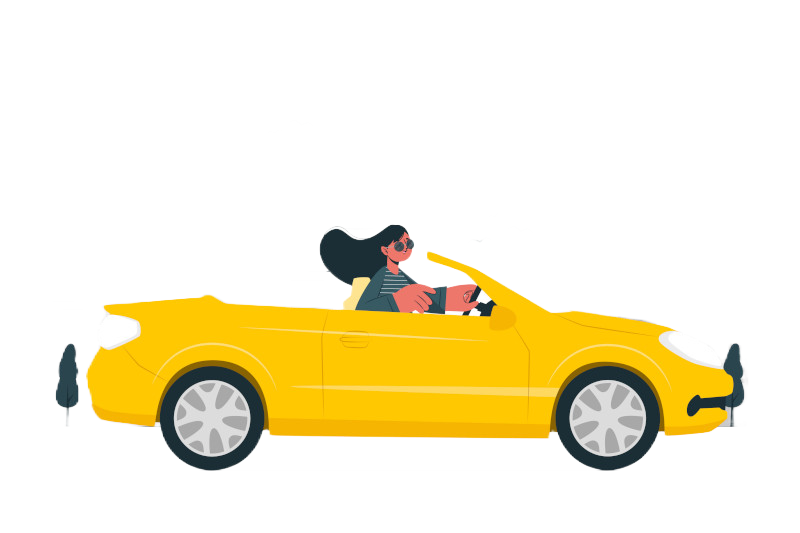
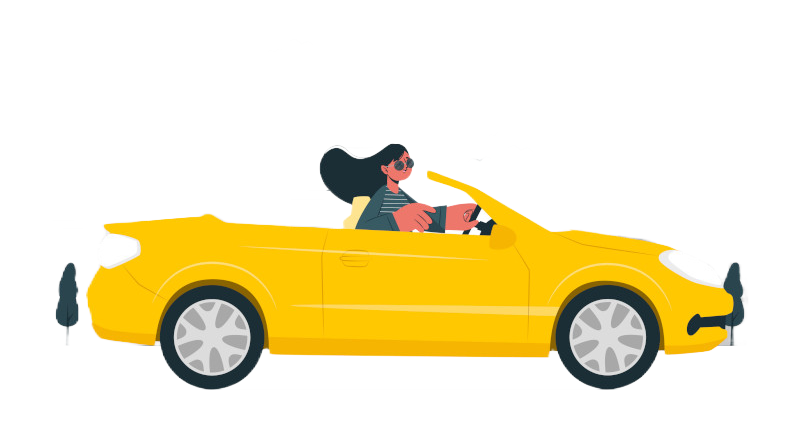
responsividade

Changed region(s): [[0.0625, 0.331, 0.9375, 0.8125], [0.1875, 0.8125, 0.875, 0.9028], [0.125, 0.7824, 0.1875, 0.8125]]

diff --git a/page-car/style/style.css b/page-car/style/style.css
@@ -30,6 +30,28 @@ header{
     align-items: center;
 
 }
+
+a:hover{
+    color: #FFC801;
+    transition: 0.3s;
+}
+
+header a{
+    text-decoration: none;
+    color: var(--cor04);
+    font-size: 1.2em;
+}
+#destaque{
+    border: 2px solid #FFC801;
+    padding: 7px;
+    border-radius: 12px;
+}
+#destaque:hover{
+    background-color: #FFC801;
+    color: #0010B3;
+    transition: 0.3s;
+
+}
 #title{
     font-family: 'Arvo', serif;
     color: #0010B3;
@@ -39,6 +61,10 @@ header{
 
 h1{
     font-weight: 400;
+}
+
+ul{
+    margin-right: 30px;
 }
 
 li{
@@ -61,4 +87,43 @@ h2{
 
 .span{
     color: var(--cor01);
+}
+p{
+    line-height: 18px;
+    max-width: 500px;
+    font-family: Verdana, Geneva, Tahoma, sans-serif;
+    color: rgb(27, 27, 27);
+}
+
+form{
+    display: flex;
+    flex-direction: column;
+    width: 70%;
+}
+input{
+    margin-top: 20px;
+    height: 20px;
+    padding: 20px;
+    border-radius: 20px;
+    background-color: #FFCD19;
+    color: #0010B3;
+    border: none;
+    font-size: 18px;
+}
+form [type= "submit"]{
+    background-color: #0010B3;
+    color: #FFCD19;
+    text-align: center;
+    height: 50px;
+    font-weight: bold;
+}
+form [type= "submit"]:hover{
+    cursor: pointer;
+}
+
+img{
+    width: 100%;
+}
+@media(max-width:700px) {
+    img{display: none;}
 }

diff --git a/page-car/index.html b/page-car/index.html
@@ -15,10 +15,10 @@
         </div>
 
         <ul>
-            <li><a href="/">inicio</a></li>
-            <li><a href="/">sobre</a></li>
-            <li><a href="/">contato</a></li>
-            <li><a href="/">conheça nossos veiculos</a></li>
+            <li><a href="/">Inicio</a></li>
+            <li><a href="/">Sobre</a></li>
+            <li><a href="/">Contato</a></li>
+            <li><a id="destaque" href="/">Conheça nossos veiculos</a></li>
         </ul>
         
     </header>
@@ -33,8 +33,8 @@
         
         <form>
             <input type="text" placeholder="Nome">
-            <input type="email" placeholder="e-mail">
-            <input type="submit" value="enviar formulario">
+            <input type="email" placeholder="E-mail">
+            <input type="submit" value="Enviar formulario">
         </form>
     </aside>
 
